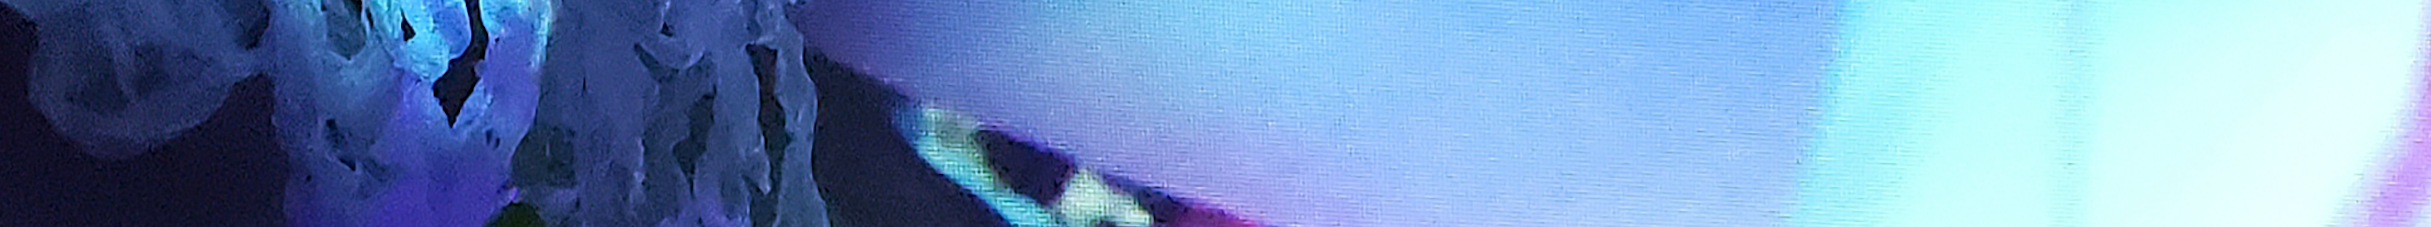
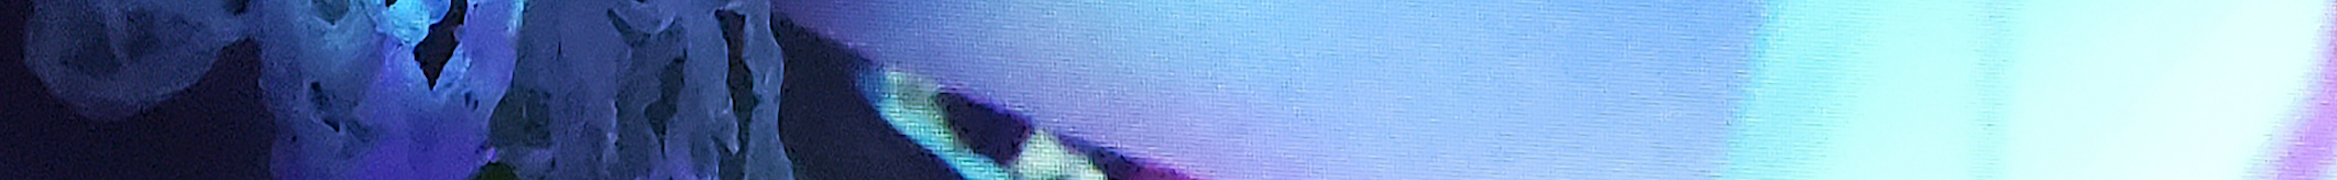
wen img edit
wen img edit

diff --git a/Website Construction/wen.html b/Website Construction/wen.html
@@ -57,13 +57,17 @@ concern yet commonly ignored.  </p>
 
 <iframe src="https://player.vimeo.com/video/337453725" width="640" height="640" frameborder="0" allow="autoplay; fullscreen" allowfullscreen></iframe>
 
-<p> Artist Statement</p>
+<h4><b>Artist Statement</b></h4>
 
 <p>Plastics are increasingly becoming an unavoidable substance in the ocean. They accumulate in gyres, floating through the world’s oceans and forming into large plastic patches.  Plastic bags, litters, fishing nets, and all the single-use packaging that we use once and throw away will leave from one place and come back across the ocean years later. They break down into several micro-plastic pieces but will never biodegrade.  This wave of non-living micro-plastics is migrating into the ocean, merging with marine organisms’ souls and bodies. Thus, plastics are turning the world’s oceans into an inanimate world.</p>
 <p>With this installation piece titled Migration of Entangled Ghosts, I intend to reveal the pollution problem caused by our excessive consumption of plastic. Imagining a ghost floating in the room may allow the viewer to feel the entangling of marine life and the poisoning of seawater.  I combine pictures, sculptures, and technology together in this piece to carry out an inanimate ghost migration. This could be a unique and imaginative experience concerning the future that may arise when two extremely contradictory substances merge. <p/>
 <p>In the future, seawater is covered by plastic; the bodies of trapped animals hang on abandoned fishing nets. Everything is lifeless, just as the sculpture in this room floats in midair. It is a warning regarding to people's behaviors affecting on ocean. In the end, we are also the ghosts that are entangled.<p/>
 
 <img src="Assets/wen5.png" class="w3-margin" style="width:100%">
+<img src="Assets/wen6.png" class="w3-margin" style="width:100%">
+
+<h4><b>Documentation</b></h4>
+<img src="Assets/wen7.png" class="w3-margin" style="width:90%">
 
 
 
